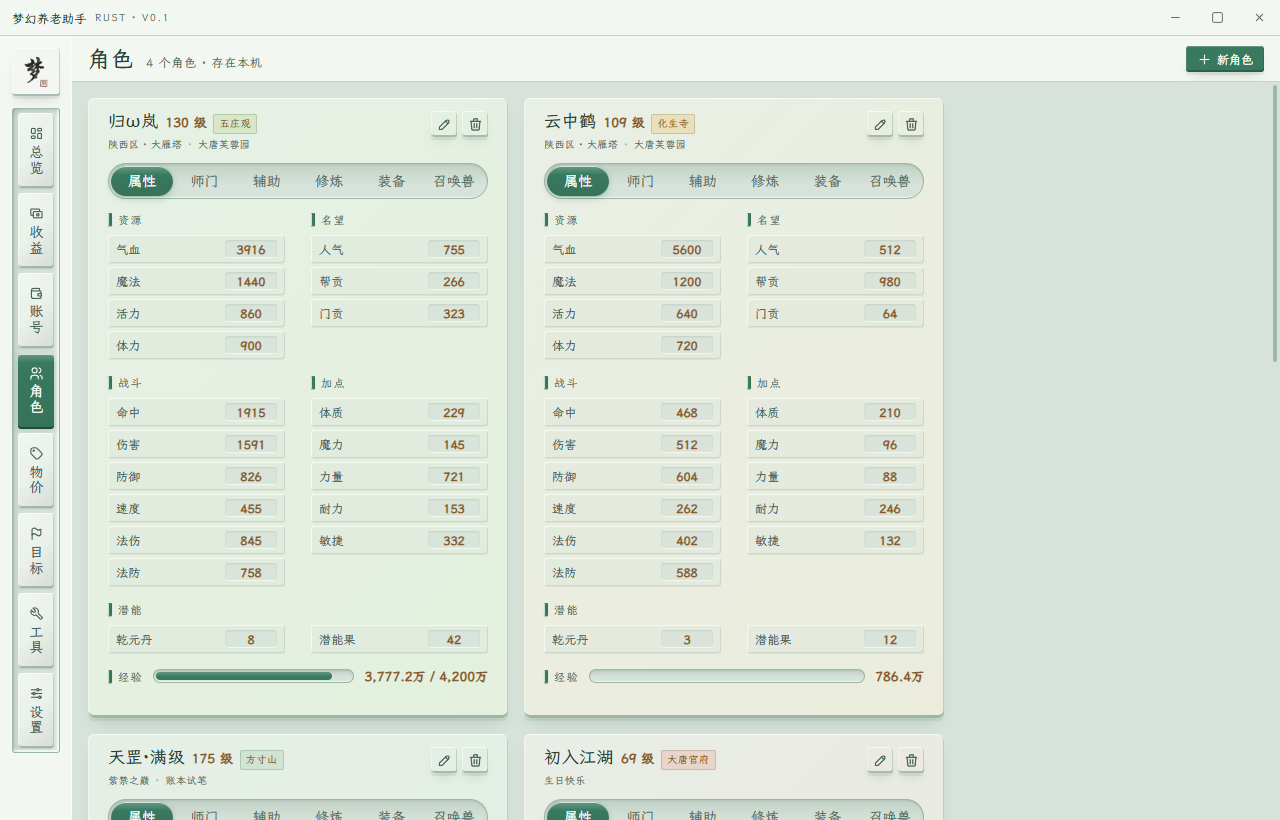
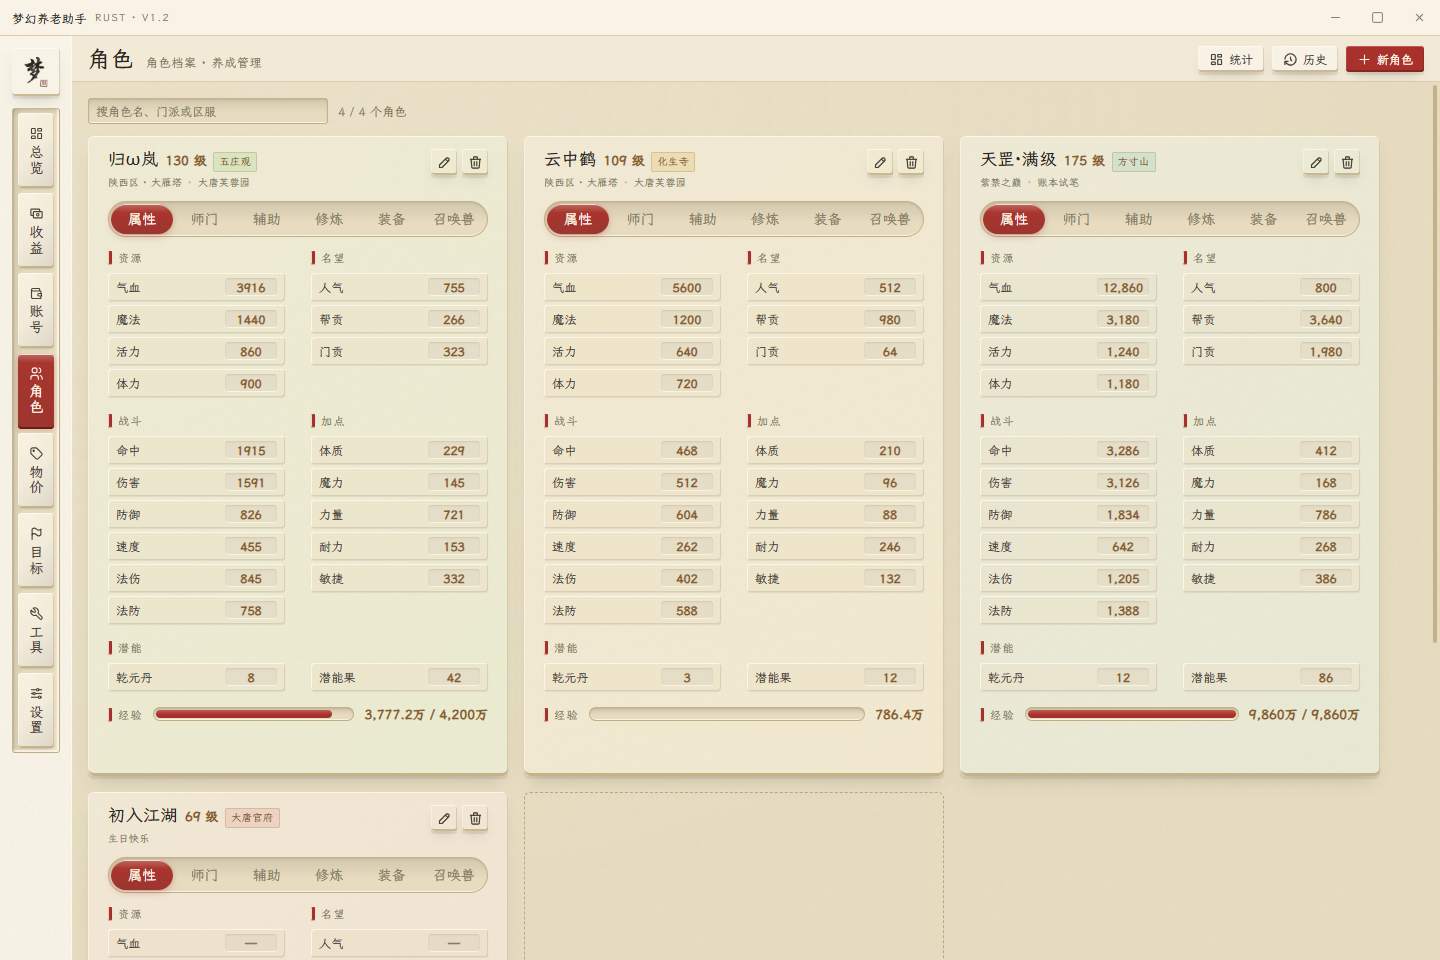
docs:更新新版功能介绍与界面配图

diff --git a/README.md b/README.md
@@ -8,7 +8,7 @@
 
 <table>
     <tr>
-        <td width="33%" align="center"><a href="docs/screenshots/overview.png"><img src="docs/screenshots/overview.png" alt="总览：今日工作台、常用功能与队伍近况" width="100%"></a><br>总览</td>
+        <td width="33%" align="center"><a href="docs/screenshots/overview.png"><img src="docs/screenshots/overview.png" alt="总览：近一周概况、近一个月双币种收支与常用功能" width="100%"></a><br>总览</td>
         <td width="33%" align="center"><a href="docs/screenshots/characters.png"><img src="docs/screenshots/characters.png" alt="角色：属性、技能、修炼与装备管理" width="100%"></a><br>角色</td>
         <td width="33%" align="center"><a href="docs/screenshots/income.png"><img src="docs/screenshots/income.png" alt="收益：物品速记、点卡与统计图表" width="100%"></a><br>收益</td>
     </tr>
@@ -18,17 +18,20 @@
 
 ## 功能
 
-- **角色与目标**：属性、师门、辅助、修炼、装备和召唤兽管理；离线截图识别、成长历史，单角色或多角色养成目标。
-- **收益与记账**：物品速记、点卡成本、上线记录、角色分账、物价追踪与统计图表。
-- **日常与外观**：自定义快捷入口、捉鬼助手、闹钟、活动日历；六种主题、明暗切换、独立字体与字号设置。
+- **工作台**：近一周速记、在线时长与点卡消耗，近一个月梦幻币和人民币的收入、支出，以及可自定义的常用功能入口。
+- **角色与目标**：属性、师门、辅助、修炼、装备和召唤兽统一管理；离线截图识别、识别改动摘要、成长历史与角色统计，支持单角色或多角色养成目标。阴阳玉魄可同图识别，命魂之玉属性单独记录。
+- **收益与记账**：物品图标速记、多人上线计时、点卡成本、角色分账、物价追踪与统计图表；账号账本按梦幻币和人民币分别汇总，卖币支持扣除藏宝阁手续费后计算实得。
+- **日常与外观**：捉鬼助手、活动日历、提前五分钟提醒的闹钟，装备、技能与召唤兽头像图鉴；六种主题、明暗切换、独立字体与字号设置。
 
-账本保存在本机，支持导入、导出，自动保留最近 14 份日常备份，可在设置页恢复；卸载不删除数据。目录为 `%APPDATA%\mh-tool-rs`；支持通过「导入旧版」单向转换[旧 Electron 版](https://github.com/zhijian521/mh-toolbox) v10 完整备份，新版数据不能回写旧版。设置页支持手动检查正式版本更新。
+无需注册账号，日常记账与截图识别均在本机完成。账本目录为 `%APPDATA%\mh-tool-rs`，支持 JSON 导入、导出，自动保留最近 14 份日常备份，可在设置页恢复；导入或恢复前另存当前账本，卸载不删除数据。主题、字体、字号、闹钟与首页入口属于本机偏好，不随账本导出。设置页支持手动检查正式版本更新。
 
 ## 开发
 
 需要 Node.js 22、Rust stable（最低 1.90）、Visual Studio C++ Build Tools 与 Windows SDK，环境配置见 [AGENTS.md](AGENTS.md)。
 
 ```bash
+git clone https://github.com/zhijian521/mh-toolbox-rs.git
+cd mh-toolbox-rs
 npm ci
 npm run dev            # 浏览器预览，桌面能力需启动 Tauri
 npm run desktop        # Tauri 开发窗口

diff --git a/docs/RECORD.md b/docs/RECORD.md
@@ -25,6 +25,12 @@
 
 ## 3. 近期整理
 
+### 2026-11-17 · 新版对外介绍与配图
+
+- 博客项目文章与首页项目入口统一介绍当前 Rust / Tauri 版，更新工作台、角色截图识别、双币种账本、活动提醒与下载开发说明，删除旧版截图和旧仓库展示入口，保留原文章地址。
+- 项目 README 同步当前功能与数据说明，移除旧版项目链接；总览、角色和收益配图使用当前界面的独立浏览器演示数据重新生成，博客复用同一批配图，并更新站点字体子集。
+- 日常档未运行测试、检查或构建；仅生成所需配图和字体资源，未修改真实账本，未提交或发布。
+
 ### 2026-11-16 · 冗余入口与测试结构收拢
 
 - 删除只供测试调用的旧汇总、成员快照和周次接口，断言改向现行业务入口；删除无引用图表令牌。
